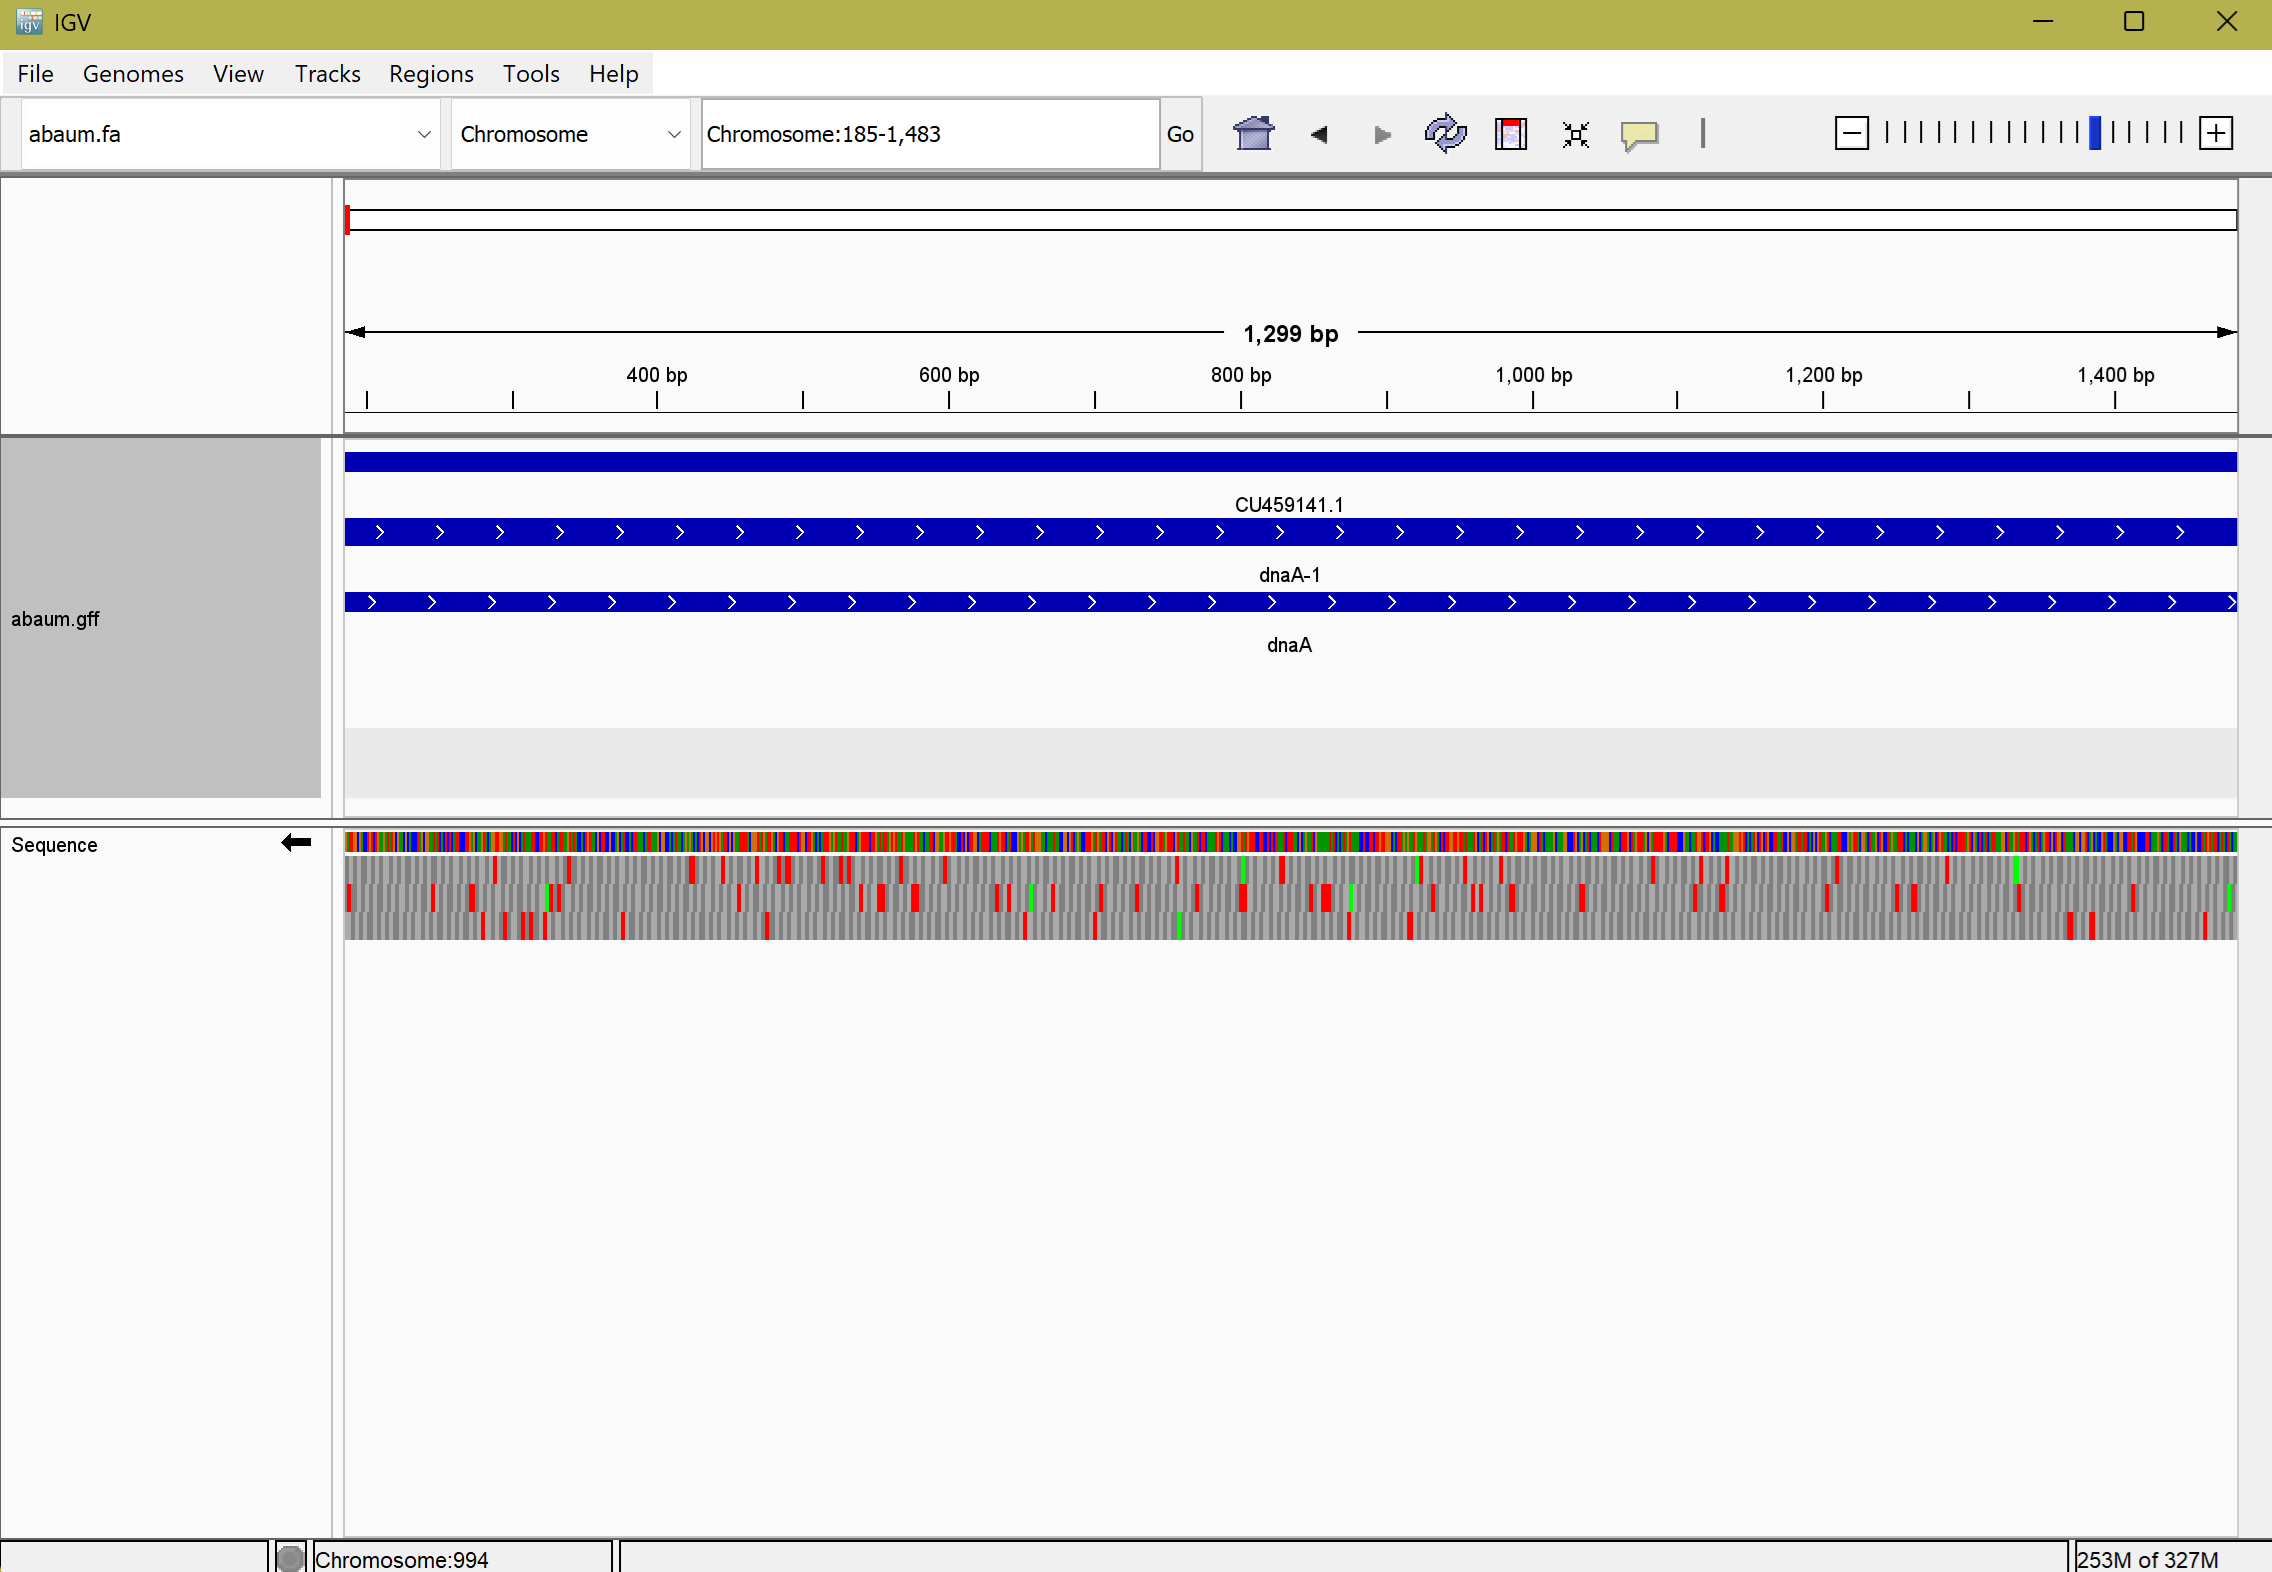
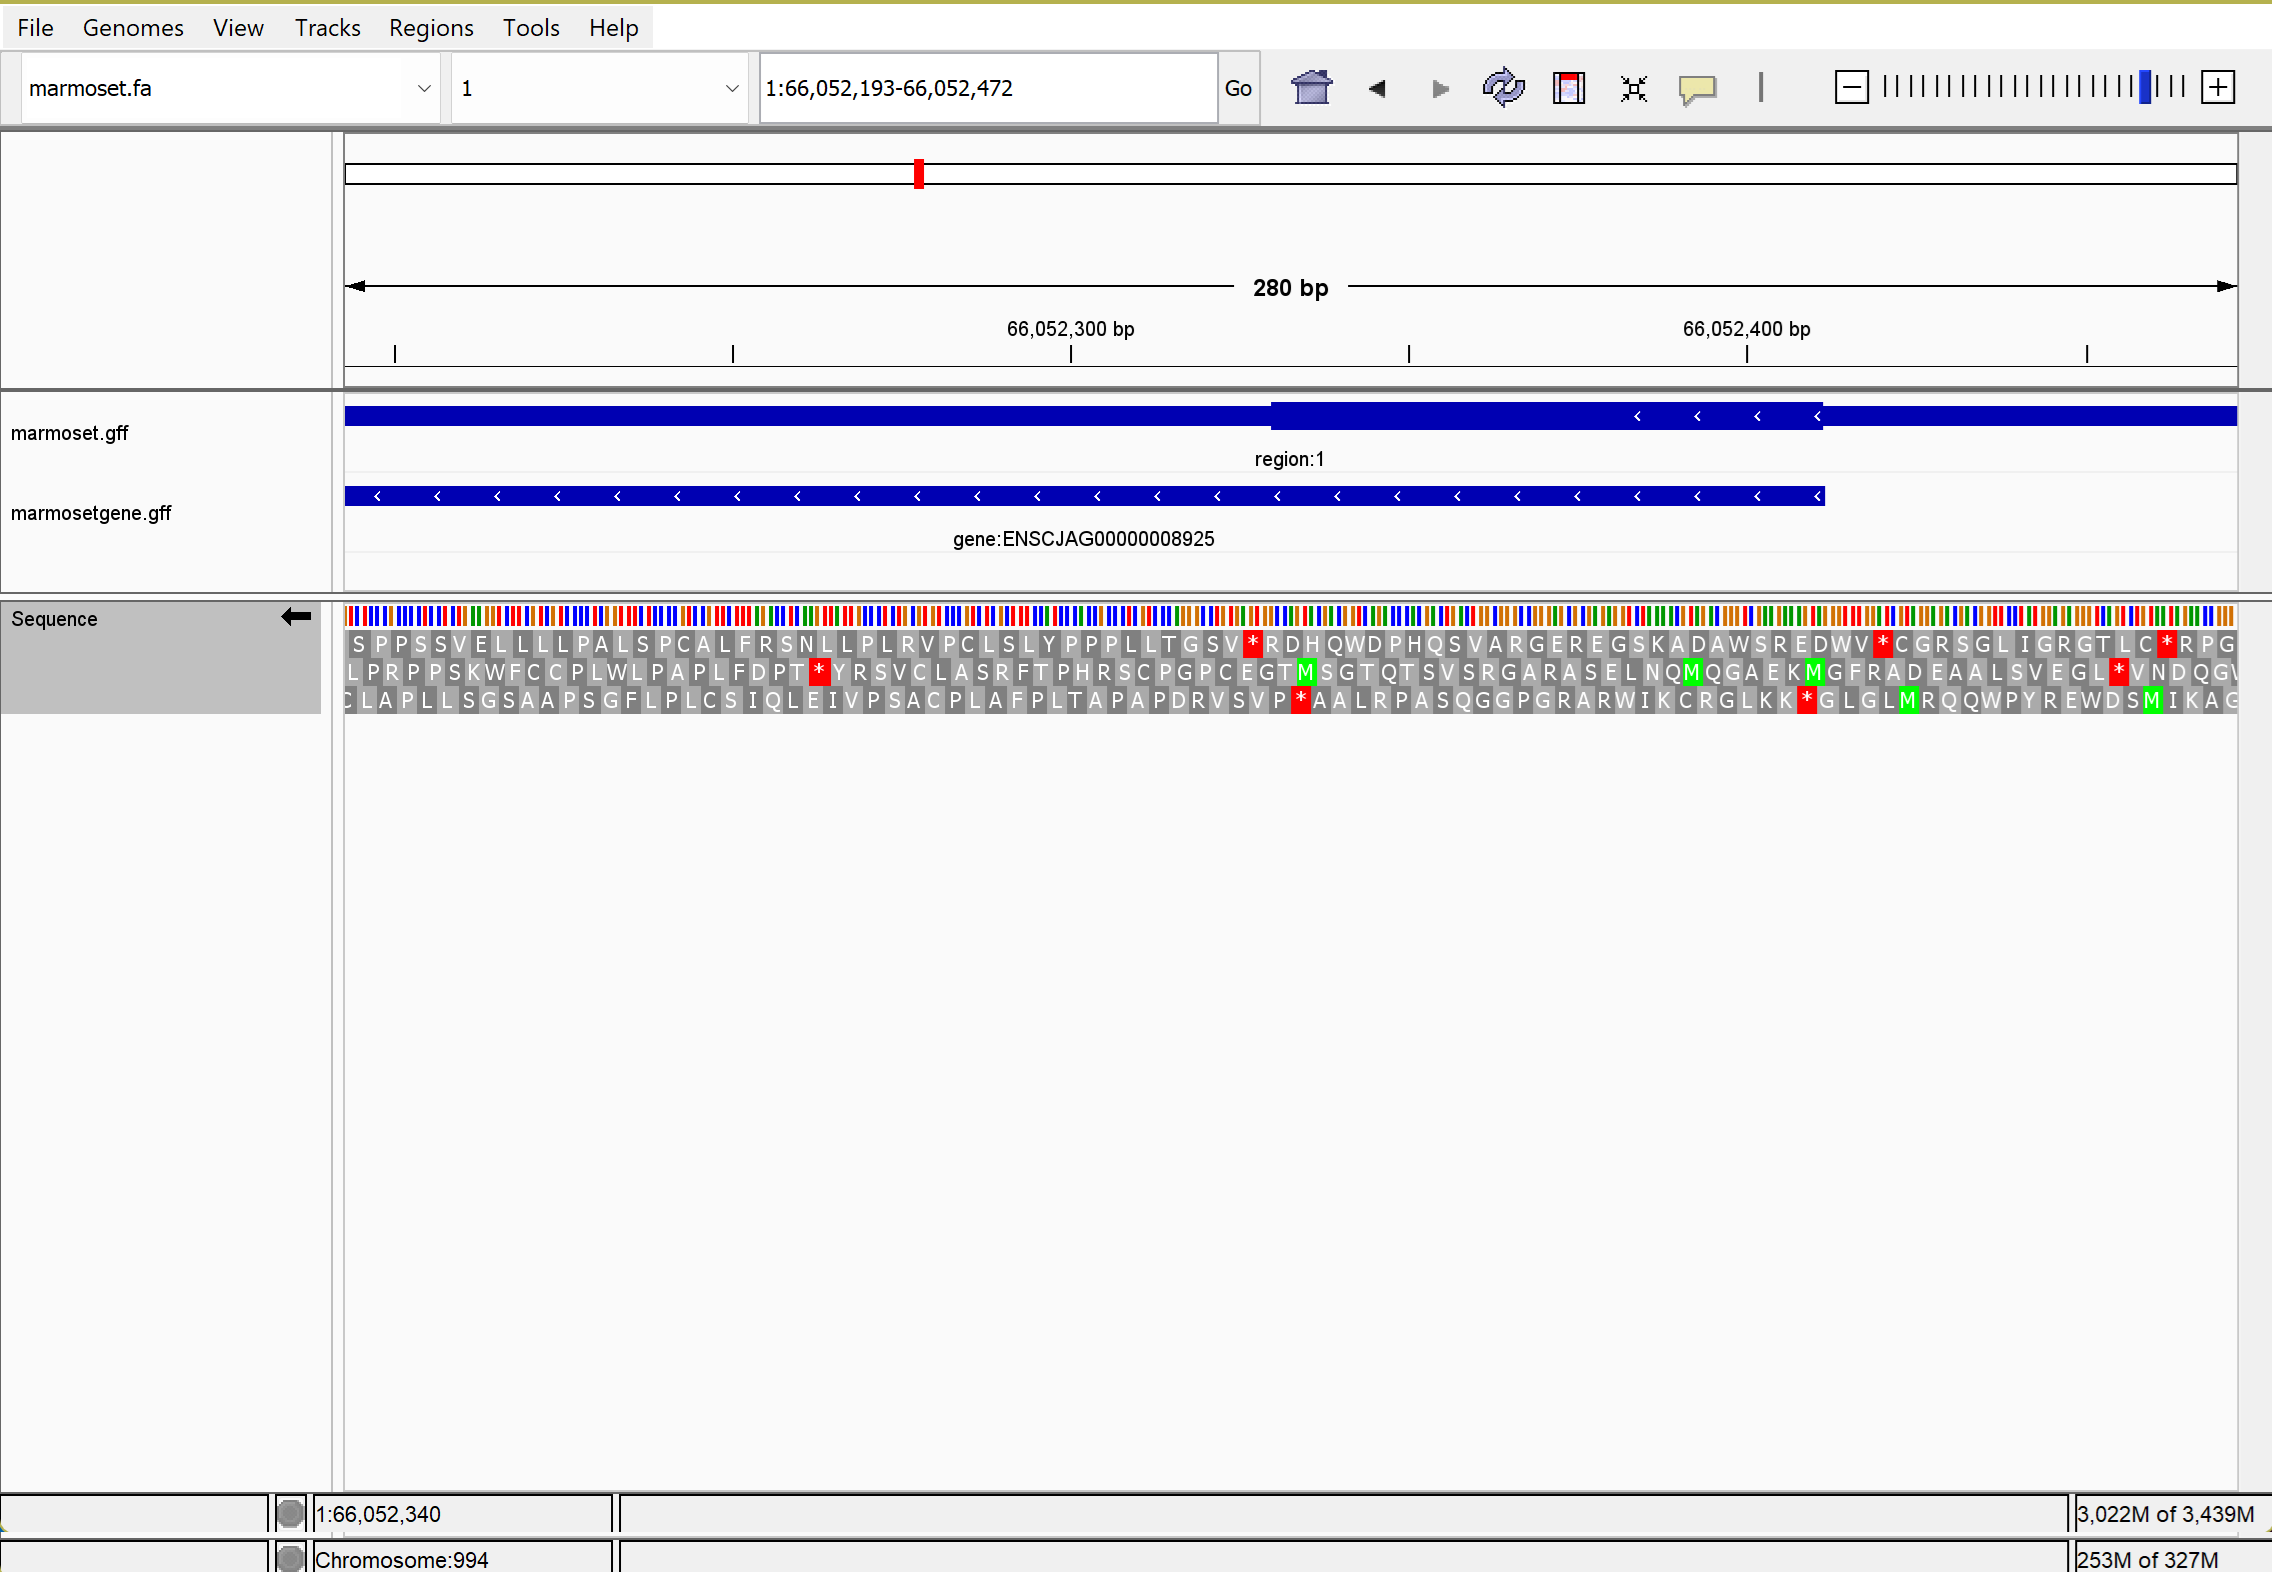
I have completed the previous version based on tutorial, which I was wrong and these changes now using the genome of my interest

Changed region(s): [[0.0, 0.187, 1.0, 0.6234], [0.0, 0.0, 1.0, 0.1247], [0.0938, 0.9351, 1.0, 0.9663]]

diff --git a/wk03/README.md b/wk03/README.md
@@ -1,35 +1,120 @@
+*Hello* **Dr. Albert**
+
+# Assignment for Week 3
+
+#### Use IGV to visualize your genome and the annotations relative to the genome.
+
+
 ```bash
-cd ~/wk03/igv
+cd ~/wk03
+
+# we get the fasta file as the sequence file of our organism to have the genome (what the identity is/ what the sequence is)
+wget https://ftp.ensembl.org/pub/current_fasta/callithrix_jacchus/dna/Callithrix_jacchus.mCalJac1.pat.X.dna.toplevel.fa.gz
+
+# unzip it
+gunzip Callithrix_jacchus.mCalJac1.pat.X.dna.toplevel.fa.gz
+
+# change the name of the file to a more easy to read
+
+mv Callithrix_jacchus.mCalJac1.pat.X.dna.toplevel.fa marmoset.fa
 ```
-we get the fasta file as the sequence file of our organism to have the genome (what the identity is/ what the sequence is)
-```bash
-wget https://ftp.ensemblgenomes.ebi.ac.uk/pub/bacteria/current/fasta/bacteria_0_collection/acinetobacter_baumannii_aye_gca_000069245/dna/Acinetobacter_baumannii_aye_gca_000069245.ASM6924v1.dna.toplevel.fa.gz
-```
-unzip it
-```bash
-gunzip Acinetobacter_baumannii_aye_gca_000069245.ASM6924v1.dna.toplevel.fa.gz
-```
-change the name of the file to a more easy to read
-```bash
-mv Acinetobacter_baumannii_aye_gca_000069245.ASM6924v1.dna.toplevel.fa abaum.fa
-```
-using tools such as seqkit to look over the details stored in the file
+#### How big is the genome?
+
+using tools such as seqkit to look over the details stored in the file, such as the size of the genome
+
 ```bash
 seqkit stats abaum.fa
 ```
+It is really big with 352 number of sequences with the length summation of around 3 billion bp (2829711198)
+
 look at it with a different tool
 ```bash
-cat abaum.fa | grep ">"
+cat marmoset.fa | grep ">"
 ```
-since the fasta starts with a > sign, so we want to look for that lines and from the outputit will tell us how many plasmids and chromosomes are in the sequenced reference genome (or how many sequences are in the file)
+since the fasta starts with a > sign, so we want to look for that lines and from the output it will tell us how many sequences are in the file
 
-now we want to get the annotation file (gff) to have the features of the genome (where the identity is/where the genes are)
+#### how many features of each type does the GFF file contain?
+
+first let's get the gff file of the marmoset
 ```bash
-wget https://ftp.ensemblgenomes.ebi.ac.uk/pub/bacteria/current/gff3/bacteria_0_collection/acinetobacter_baumannii_aye_gca_000069245/Acinetobacter_baumannii_aye_gca_000069245.ASM6924v1.62.gff3.gz
-
-gunzip Acinetobacter_baumannii_aye_gca_000069245.ASM6924v1.62.gff3.gz
-
-mv Acinetobacter_baumannii_aye_gca_000069245.ASM6924v1.62.gff3 abaum.gff
+wget https://ftp.ensembl.org/pub/current_gff3/callithrix_jacchus/Callithrix_jacchus.mCalJac1.pat.X.115.gff3.gz
+gunzip Callithrix_jacchus.mCalJac1.pat.X.115.gff3.gz
+mv Callithrix_jacchus.mCalJac1.pat.X.115.gff3 marmoset.gff3
 ```
+how many lines does the file have?
+```bash
+cat marmoset.gff3 | wc -l
+```
+1476374 lines
 
+To look over how many features of each type the gff file contains, we use the following code
+
+```bash
+cat marmoset.gff3 | grep -v '#' > marmoset.gff
+cat marmoset.gff | cut -f 3 | sort | uniq -c | sort -r -n | head
+```
+22 different features. the amount next to each feature shows how many of each feature exist in the file:
+617853 exon
+556002 CDS
+79696 biological_region
+48570 mRNA
+44437 five_prime_UTR
+25122 three_prime_UTR
+22078 gene
+16815 ncRNA_gene
+11321 lnc_RNA
+4204 transcript
+3083 snRNA
+1501 snoRNA
+1295 pseudogenic_transcript
+1295 pseudogene
+937 Y_RNA
+540 miRNA
+352 region
+213 rRNA
+97 V_gene_segment
+49 scRNA
+12 J_gene_segment
+4 C_gene_segment
+
+#### From your GFF file, separate the intervals of type "gene" or "transcript" into a different file. Show the commands you used to do this.
+
+```bash
+grep -P '\tgene\t' marmoset.gff > marmosetgene.gff
+```
+so what this line of code does is use 'gerp' to look for the a pattern. '-P' lets us to use '\t' to match the character. since we want the genes that are sorrounded by both sides (not the ones like ncRNA-gene features) so it will tell the system to go and search line by line and match the 'gene' word that seperated by tab in both sides, and then turn the ones you found matching to a different file.
+
+#### Visualize the simplified GFF in IGV as a separate track. Compare the visualization of the original GFF with the simplified GFF.
+
+in comparison to the simplified version, when I click on somwhere on blue ribbon of the orifinal file, the text would show different features in the information window. For example, the simplified version just shows the sequences of the genes, but on top of it when I click on that similar region on the original version, it shows the information of mRNA, CDS, genes, and region all in one window related to that region. Also the simplified version does not contain annotation of other regions such as 'biological_regions'.
+
+#### Zoom in to see the sequences, expand the view to show the translation table in IGV. Note how the translation table needs to be displayed in the correct orientation for it to make sense.
+the arrrow's direction of the regions on the GFF file (in the main panel) should have the same direction of the arrow's direction in the track panel next to the translation sequence.
+
+
+#### Visually verify that the first coding sequence of a gene starts with a start codon and that the last coding sequence of a gene ends with a stop codon.
+First we should check the arrow of the direction of the annotated sequences and the translation part, and then look into each of the original reading frames in order to find the green and red (markers for start and stop codon) that are at the exact location of the start and end of our gene.
+
+#### Taking the Screen Shot
+```bash
+# Feature name
+LOC=VP30
+
+# Screenshot directory
+PNG=~/work/png/
+
+# Make a snapshot directory
+mkdir -p ${PNG}
+
+# Set the snapshot directory
+echo snapshotDirectory ${PNG}
+
+# Go to the feature
+echo goto VP30
+
+# Take a screenshot
+echo snapshot ${LOC}.png
+
+bash snapit.sh | nc localhost 60151
+```
 ![alt text](IGVViewScSh.png)
